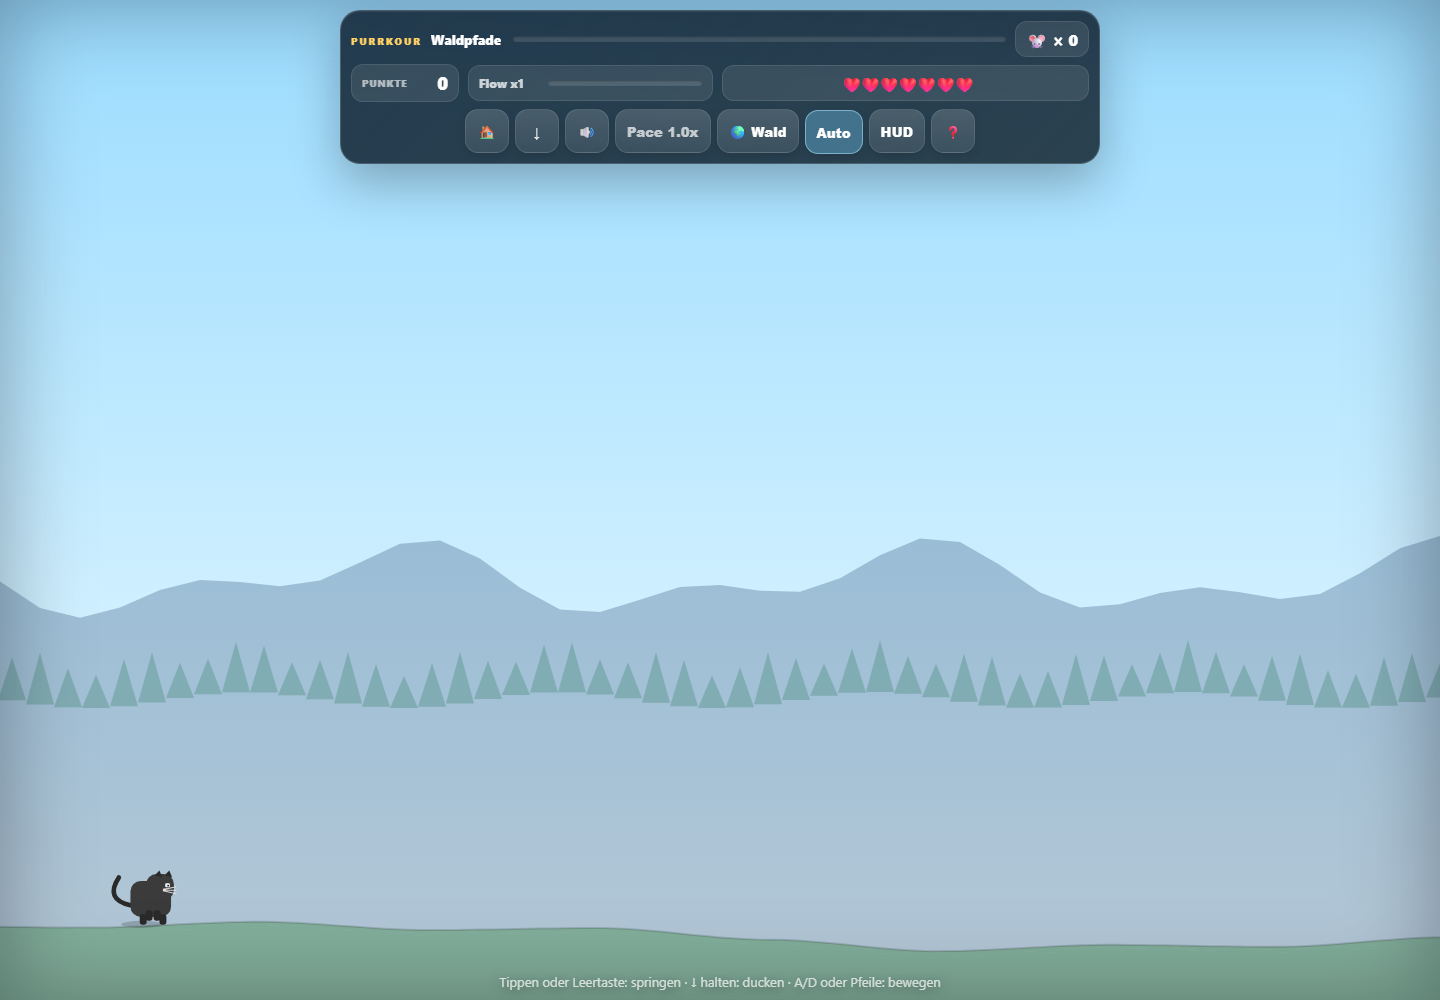
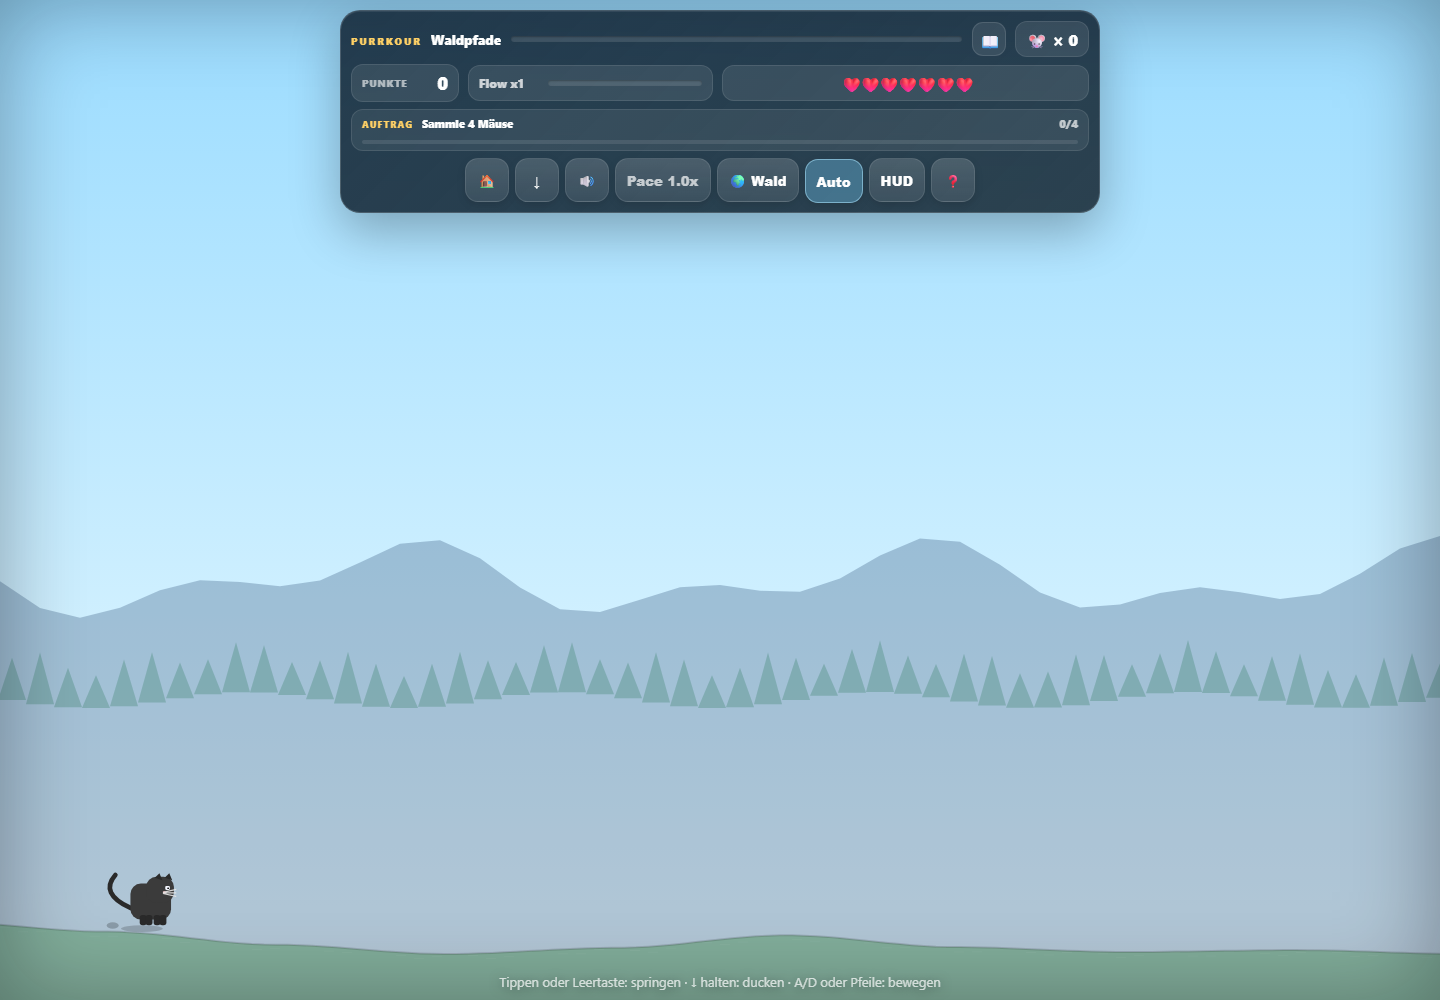
fix: keep the mobile hud within narrow viewports

diff --git a/index.html b/index.html
@@ -33,7 +33,7 @@
     .pill{
       min-height:36px; display:flex; align-items:center; justify-content:center;
       padding:6px 10px; border:1px solid rgba(255,255,255,.1); border-radius:12px;
-      background:rgba(255,255,255,.09); color:#fff; white-space:nowrap;
+      min-width:0; overflow:hidden; background:rgba(255,255,255,.09); color:#fff; white-space:nowrap;
     }
     .journey{ grid-column:1 / span 5; min-width:0; display:grid; grid-template-columns:auto 1fr auto; align-items:center; gap:10px; }
     .journey-copy{ display:flex; align-items:baseline; gap:9px; min-width:0; }
@@ -150,10 +150,10 @@
       .goal-card{ padding:5px 7px; gap:5px; font-size:9px; }
       .goal-kicker{ font-size:7px; }
       #lives{ gap:0; font-size:10px; }
-      #ui .controls{ grid-column:1 / span 4; gap:5px; }
-      #ui .controls>.btn{ flex:1 1 44px; padding:6px; font-size:11px; }
+      #ui .controls{ grid-column:1 / span 4; min-width:0; display:grid; grid-template-columns:repeat(4,minmax(0,1fr)); gap:5px; }
+      #ui .controls>.btn{ min-width:0; width:100%; padding:6px; font-size:11px; }
       #speedBtn{ display:none; }
-      .theme-button{ min-width:56px; }
+      #ui .controls>.theme-button{ min-width:0; }
       #hint{ font-size:11px; bottom:6px; }
       .hint-desktop{ display:none; }
       .hint-mobile{ display:inline; }

diff --git a/tests/ui-contract.test.js b/tests/ui-contract.test.js
@@ -12,6 +12,7 @@ test("mobile controls expose crouch semantics and browser zoom", () => {
   assert.match(html, /min-width:44px; min-height:44px/);
   assert.doesNotMatch(html, /user-scalable=no|maximum-scale=1/);
   assert.match(html, /Tippen: Sprung/);
+  assert.match(html, /grid-template-columns:repeat\(4,minmax\(0,1fr\)\)/);
 });
 
 test("discoverable help, theme and compact-view controls replace hidden gestures", () => {
@@ -30,6 +31,7 @@ test("discoverable help, theme and compact-view controls replace hidden gestures
   assert.match(main, /game\.helpOpen = true/);
   assert.match(main, /game\.helpOpen = false/);
   assert.match(main, /createJourneyAlbum/);
+  assert.match(main, /get\("album"\) === "1"/);
 });
 
 test("game over remains visible until the player requests a restart", () => {

diff --git a/src/main.js b/src/main.js
@@ -269,6 +269,7 @@ function setupAlbum(game, album, ui) {
     event.preventDefault();
     closeAlbum();
   });
+  if (new URLSearchParams(window.location.search).get("album") === "1") openAlbum();
 }
 
 

diff --git a/AUDIT.md b/AUDIT.md
@@ -5,7 +5,7 @@ Geprüfter Branch: `main`
 
 ## Kurzurteil
 
-`purrkour` ist ein visuell eigenständiger, modular aufgebauter Reise-Runner mit prozeduralem Canvas-Rendering, mehreren Themen, Setpieces, Fahrzeugen und Sammelobjekten. Die technischen P0-Risiken des ersten Audits sind behoben. Ein zweiter Produktblock macht die lange Reise nun auch kurzfristig motivierend: Flow, Abschnittsfortschritt, Aktionsfeedback und HUD-Hierarchie sind umgesetzt und automatisiert abgesichert.
+`purrkour` ist ein visuell eigenständiger, modular aufgebauter Reise-Runner mit prozeduralem Canvas-Rendering, mehreren Themen, Setpieces, Fahrzeugen und Sammelobjekten. Die technischen P0-Risiken des ersten Audits sind behoben. Flow, Abschnittsfortschritt, rotierende Laufaufträge, freiwillige Goldpfade und ein persistentes Reisealbum verbinden die lange Reise nun mit kurz- und mittelfristiger Motivation.
 
 Die bestätigten technischen und produktbezogenen Befunde sind umgesetzt. Verbleibend sind vor einem öffentlichen Release vor allem manuelle Langstrecken-, Geräte-, Screenreader- und Rechteprüfungen.
 
@@ -18,7 +18,7 @@ Die bestätigten technischen und produktbezogenen Befunde sind umgesetzt. Verble
 | PURR-03 | erledigt | ESLint-Glob aktiv; echte Regeln greifen und `--max-warnings=0` verhindert neue Warnschulden |
 | PURR-04 | erledigt | semantischer 44-px-Touchbutton für Ducken nutzt denselben Input-State wie die Tastatur |
 | PURR-05 bis PURR-07 | erledigt | kanonischer Reset, funktionierender Theme-Fade und Debug-Gating über `?debug=1` |
-| PURR-08 | erledigt | 21 Node-Tests, dauerhafter Headless-Chrome-Smoke-Test, CI, npm-10-kompatible Installation und reproduzierbarer Release-Build |
+| PURR-08 | erledigt | 30 Node-Tests, dauerhafter Headless-Chrome-Smoke-Test, CI, npm-10-kompatible Installation und reproduzierbarer Release-Build |
 | PURR-09, PURR-10 | erledigt | ES-Modul-Paket und zustandsabhängige HUD-Updates |
 | PURR-11 | erledigt | Resize migriert Terrain, Katze, Objekte und Effekte, ohne Progression oder Spawner zurückzusetzen |
 | PURR-12, PURR-13 | erledigt | First-run-Hilfe, kurze Mobile-Hilfe, semantische Theme-/Auto-/HUD-Aktionen, Zielgrößen, Fokus, Zoom und ARIA umgesetzt |
@@ -37,6 +37,10 @@ Die bestätigten technischen und produktbezogenen Befunde sind umgesetzt. Verble
 | PURR-21 | erledigt | alle Progressionsbeats besitzen lesbare Namen und einen sichtbaren Etappenfortschritt |
 | PURR-22 | erledigt | neue HUD-Hierarchie priorisiert Reise, Flow, Punkte und Leben; Einstellungen bleiben nachgeordnet erreichbar |
 | PURR-23 | erledigt | farbige Aktionspartikel, Flow-Puls, Tier-Meldungen und bester Flow im Run-Ergebnis schließen die Feedbackschleife |
+| PURR-24 | erledigt | drei deterministisch rotierende Laufaufträge für Mäuse, Flow und Manöver zeigen Fortschritt und vergeben eigene Boni |
+| PURR-25 | erledigt | scorebasierte Goldpfade bieten eine optionale Höhenroute mit fünf goldenen Zielen, separatem Bonus und sauberem Auslaufen bei Fehlschlag |
+| PURR-26 | erledigt | fehlertolerantes Reisealbum persistiert Welten, Etappen, Setpieces, Aufträge, Goldpfade, Läufe und Bestwerte |
+| PURR-27 | erledigt | das auf 390 px überlaufende Mobile-HUD nutzt ein geprüftes Vier-Spalten-Raster und hält alle Aktionen im Viewport |
 
 ## Aktueller Aufbau
 
@@ -47,7 +51,7 @@ Die bestätigten technischen und produktbezogenen Befunde sind umgesetzt. Verble
 - Desktop: Sprung, Links/Rechts und Ducken; Debug-Hotkeys sind nur mit `?debug=1` aktiv.
 - Touch: Pointer löst Sprung aus, ein sichtbarer Button erlaubt Ducken. Eine explizite Touch-Aktion für Links/Rechts fehlt weiterhin.
 - Soundstatus und manuelle Themenwahl werden fehlertolerant persistiert.
-- ESLint, Husky, Commitlint, 21 Node-Tests und ein echter Headless-Chrome-Smoke-Test sind wirksam; CI führt Check und Release-Build mit der eingecheckten npm-Konfiguration reproduzierbar aus.
+- ESLint, Husky, Commitlint, 30 Node-Tests und ein echter Headless-Chrome-Smoke-Test sind wirksam; CI führt Check und Release-Build mit der eingecheckten npm-Konfiguration reproduzierbar aus.
 
 ## Durchgeführte Prüfungen
 
@@ -55,13 +59,13 @@ Die bestätigten technischen und produktbezogenen Befunde sind umgesetzt. Verble
 |---|---|
 | Git-Status und Upstream | sauber, `main` folgt `origin/main` |
 | `npm ci` mit npm 10.8.2 | erfolgreich; Peer-Auflösung ist über `.npmrc` reproduzierbar |
-| `npm run check` | erfolgreich; aktiver Linter plus 21/21 Tests und Browser-Smoke |
+| `npm run check` | Logik/Lint erfolgreich mit 30/30 Tests; Browser-Smoke außerhalb der eingeschränkten Sandbox erfolgreich |
 | `npm run test:browser` | erfolgreich; echter Modulstart, dynamisches HUD und geöffnete Hilfe in Headless Chrome |
-| `npm run build` | 48 Runtime-Dateien, 232.308 Bytes bei 750-KiB-Budget |
+| `npm run build` | 51 Runtime-Dateien, 251.567 Bytes bei 750-KiB-Budget |
 | `npm run lint` | 0 Fehler, 0 Warnungen; Warnbudget ist null |
 | ESLint `--print-config` | `no-undef` aktiv auf Fehler-, `no-unused-vars` auf Warnstufe |
 | Desktop-Laufzeit, 1440 × 1000 | nach Änderungen erneut geladen und gerendert |
-| Mobile-Laufzeit, 390 × 844 | nach Änderungen erneut geladen; Ducken- und Pauseinteraktion geprüft |
+| Mobile-Laufzeit, 390 × 844 | per Chrome Device Metrics exakt emuliert; alle Werte und sieben Aktionen vollständig sichtbar |
 | Browserprotokoll | keine bestätigte Exception; kein AudioContext vor Nutzergeste |
 | HUD-Ziele | mindestens 44 × 44 CSS-Pixel, auf Mobile sichtbar größer |
 | Commit-Hook | gültige Conventional-Commit-Nachricht akzeptiert, ungültige abgelehnt |
@@ -131,7 +135,7 @@ Maßnahme: Debugfunktionen nur über expliziten Query-Parameter oder Development
 
 `tests/smoke.test.js` liest Dateien und extrahiert Strukturen mit regulären Ausdrücken. Module werden nicht importiert, Zustände nicht simuliert und Browserabläufe nicht gestartet. Änderungen an Physik, Reset, Input, Audio oder Rendering bleiben unentdeckt.
 
-Umsetzung: Das ES-Modul-Paket besitzt 21 direkte Node-Tests für Audio, Flow, HUD, Storage, State, Resize, Timing und UI-Verträge. Ein dauerhafter Chrome-Smoke-Test startet einen isolierten lokalen Server und prüft echten Modulstart, Canvas, dynamisches HUD und Onboarding. GitHub Actions führt `npm ci`, das vollständige Gate und den Release-Build aus.
+Umsetzung: Das ES-Modul-Paket besitzt 30 direkte Node-Tests für Audio, Flow, Laufaufträge, Goldpfade, Reisealbum, HUD, Storage, State, Resize, Timing und UI-Verträge. Ein dauerhafter Chrome-Smoke-Test startet einen isolierten lokalen Server und prüft echten Modulstart, Canvas, dynamisches HUD und Onboarding. GitHub Actions führt `npm ci`, das vollständige Gate und den Release-Build aus.
 
 Akzeptanz: Tests decken mindestens Initialzustand, Reset, Progression, Frame-Raten-Unabhängigkeit, Input-Mapping und Audio-Unlock ab.
 
@@ -205,10 +209,10 @@ Umsetzung: Die tote Abfrage wurde entfernt und der vorhandene City-Renderer dire
 
 ## Perspektiven
 
-- Entwickler: Flow und HUD sind getrennte, deterministische Module; aktive Gates schützen Logik, UI-Verträge und reale Browserinitialisierung.
-- UX: Reiseabschnitt, Fortschritt und Flow geben lang- und kurzfristige Ziele; Hilfe und Run-Ergebnis erklären die neue Schleife.
-- UI: Die gläserne Hierarchie priorisiert Spielsituation vor Einstellungen und bleibt auf Desktop sowie schmalen Viewports kompakt.
-- Anwender: Springen bleibt sofort verständlich; Ducken, Pause, Themenwahl, Flow-Verlust und die nächste Etappe sind sichtbar nachvollziehbar.
+- Entwickler: Flow, Aufträge, Goldpfade und Album besitzen getrennte, deterministische Module; aktive Gates schützen Logik, UI-Verträge und reale Browserinitialisierung.
+- UX: Reiseabschnitt, Laufauftrag, optionale Risikoroute und Album decken unmittelbare Aktion, aktuelle Runde und langfristige Entdeckung ab.
+- UI: Die gläserne Hierarchie priorisiert Spielsituation vor Einstellungen; das Vier-Spalten-Raster bleibt auf exakt 390 px vollständig sichtbar.
+- Anwender: Der sichere Weg bleibt spielbar, während Goldmäuse eine verständliche freiwillige Herausforderung und das Album einen Wiederkehrgrund bieten.
 - Betrieb: CI, Browser-Smoke, Allowlist-Build mit 750-KiB-Budget, README, Asset-Inventar und Release-Checkliste schaffen einen reproduzierbaren statischen Releasepfad.
 
 ## Verbleibende Releaseprüfungen
@@ -227,6 +231,10 @@ Aktuelle Desktopansicht mit Reise- und Flow-Hierarchie:
 Aktuelle Hochkantansicht mit kompakten, sichtbaren Basisaktionen:
 
 ![Purrkour Produktansicht Mobile](docs/audit/product-mobile.png)
+
+Persistentes Reisealbum mit Entdeckungen und Laufwerten:
+
+![Purrkour Reisealbum](docs/audit/album-desktop.png)
 
 First-run-Hilfe in der schmalen Hochkantansicht:
 

diff --git a/docs/PRODUCT-ROADMAP.md b/docs/PRODUCT-ROADMAP.md
@@ -22,16 +22,16 @@ Stand: 2026-08-05
 | P0 | Reiseanzeige | benannter Abschnitt und Fortschrittsbalken machen die Dramaturgie verständlich | umgesetzt |
 | P0 | HUD-Hierarchie | Score, Flow und Reise stehen vor Einstellungen; Mobile benötigt weniger Höhe | umgesetzt |
 | P0 | Aktionsfeedback | Funken, Flow-Puls und klare Tier-Meldungen machen Können sichtbar | umgesetzt |
-| P1 | Laufaufträge | wechselnde Ziele wie Mäuseketten, Duck-Passagen oder fehlerfreie Abschnitte schaffen Varianz | nächste Iteration |
-| P1 | Routenentscheidungen | sichere und riskante Objekt-Packs bieten bewusst unterschiedliche Belohnungen | Backlog |
-| P1 | Reisealbum | Bestwerte, besuchte Welten und Setpieces bilden eine kleine Meta-Progression | Backlog |
+| P1 | Laufaufträge | Mäusejagd, Flow-Ziel und Mutpfoten-Manöver rotieren deterministisch und vergeben eigene Boni | umgesetzt |
+| P1 | Routenentscheidungen | der sichere Bodenweg bleibt offen; sichtbare Höhenrouten belohnen fünf Goldmäuse separat | umgesetzt |
+| P1 | Reisealbum | Bestwerte, besuchte Welten, Etappen, Setpieces, Aufträge und Goldpfade bilden eine lokale Meta-Progression | umgesetzt |
 | P2 | Klangmotive pro Beat | kurze musikalische Signale markieren Flow-Tiers und neue Reiseabschnitte | benötigt Audioabnahme |
 | P2 | Teilen/Wiederholen | kompakte Run-Zusammenfassung mit Seed und Best-Flow | Backlog |
 
 ## Erfolgskriterien dieser Iteration
 
-- Ein sauberer Lauf erzeugt innerhalb weniger Aktionen einen sichtbaren Multiplikator.
-- Score-Belohnung und Flow-Verlust sind deterministisch und direkt getestet.
-- Aktueller Reiseabschnitt und Fortschritt sind ohne Debugfunktionen erkennbar.
-- HUD und Spielfläche bleiben auf schmalen Viewports ausgewogen.
+- Auftrag, Fortschritt und Bonus sind ohne Hilfe verständlich und wechseln deterministisch.
+- Der Goldpfad ist als freiwillige, riskantere Route lesbar und blockiert den Bodenweg nicht.
+- Das Reisealbum überlebt Neustarts und bleibt bei beschädigtem oder gesperrtem Storage sicher.
+- HUD und alle Aktionen bleiben bei exakt 390 × 844 vollständig sichtbar.
 - Automatische Tests, Browser-Smoke und Release-Budget bleiben grün.

diff --git a/README.md b/README.md
@@ -1,6 +1,6 @@
 # Purrkour
 
-Purrkour ist ein browserbasierter Reise-Runner mit prozedural gezeichneter Canvas-Welt, wechselnden Themen, Sammelobjekten und Setpieces. Saubere Aktionen bauen einen Flow-Multiplikator auf; das HUD zeigt den aktuellen Reiseabschnitt und dessen Fortschritt.
+Purrkour ist ein browserbasierter Reise-Runner mit prozedural gezeichneter Canvas-Welt, wechselnden Themen, Sammelobjekten und Setpieces. Saubere Aktionen bauen einen Flow-Multiplikator auf; rotierende Laufaufträge und freiwillige Goldpfade setzen kurzfristige Ziele. Das lokale Reisealbum hält Entdeckungen und Bestwerte über mehrere Läufe fest.
 
 ## Lokal starten
 
@@ -18,14 +18,14 @@ Danach läuft das Spiel unter `http://127.0.0.1:4173`. Der Server bindet absicht
 - Tippen oder Leertaste/W/Pfeil hoch: springen
 - A/D oder Pfeile links/rechts: bewegen
 - S, Pfeil runter oder sichtbarer ↓-Button: ducken
-- Hütte: Pause; Sound, Thema, Themenautomatik, HUD und Hilfe besitzen eigene Buttons
+- Hütte: Pause; Sound, Thema, Themenautomatik, Reisealbum, HUD und Hilfe besitzen eigene Buttons
 
 Die Hilfe erscheint beim ersten Start und kann über `?` erneut geöffnet werden.
 
 ## Entwicklung und Qualität
 
 ```powershell
-npm run check   # ESLint, 21 Node-Tests und Headless-Chrome-Smoke-Test
+npm run check   # ESLint, 30 Node-Tests und Headless-Chrome-Smoke-Test
 npm run build   # erzeugt ein geprüftes statisches Artefakt in dist/
 ```
 
@@ -34,8 +34,9 @@ Nützliche Query-Parameter:
 - `?debug=1` aktiviert die Entwicklungssteuerung.
 - `?theme=city` setzt ein Startthema.
 - `?help=1` öffnet die Hilfe; `?help=0` unterdrückt nur das automatische Öffnen.
+- `?album=1` öffnet das Reisealbum direkt, etwa für visuelle Prüfungen.
 
-Die Laufzeit besteht aus nativen ES-Modulen. `src/main.js` komponiert Core-, Game-, World-, Object- und Entity-Module. Präferenzen und Bestwert verbleiben ausschließlich im lokalen Browserspeicher.
+Die Laufzeit besteht aus nativen ES-Modulen. `src/main.js` komponiert Core-, Game-, World-, Object- und Entity-Module. Präferenzen, Bestwert und Reisealbum verbleiben ausschließlich im lokalen Browserspeicher.
 
 ## Release
 

diff --git a/docs/RELEASE.md b/docs/RELEASE.md
@@ -10,7 +10,9 @@
 ## Manuell
 
 - [ ] Desktop und Hochkantansicht starten ohne Konsolenfehler.
-- [ ] Erststart-Hilfe, Pause, Ducken, Sound, Thema, Auto-Thema und Kompaktansicht funktionieren per Pointer und Tastatur.
+- [ ] Erststart-Hilfe, Pause, Ducken, Sound, Thema, Auto-Thema, Reisealbum und Kompaktansicht funktionieren per Pointer und Tastatur.
+- [ ] Alle drei Laufaufträge wechseln korrekt; ein Goldpfad kann vollständig abgeschlossen und auch folgenlos verpasst werden.
+- [ ] Reisealbum behält Welten, Etappen, Aufträge, Goldpfade und Bestwerte nach Reload sowie neuem Lauf.
 - [ ] Resize/Rotation erhält Score, Leben, Weltobjekte und Position plausibel.
 - [ ] Game over zeigt Score/Bestwert und wartet auf „Erneut spielen“.
 - [ ] Sound startet erst nach einer Nutzergeste und respektiert die gespeicherte Auswahl.
